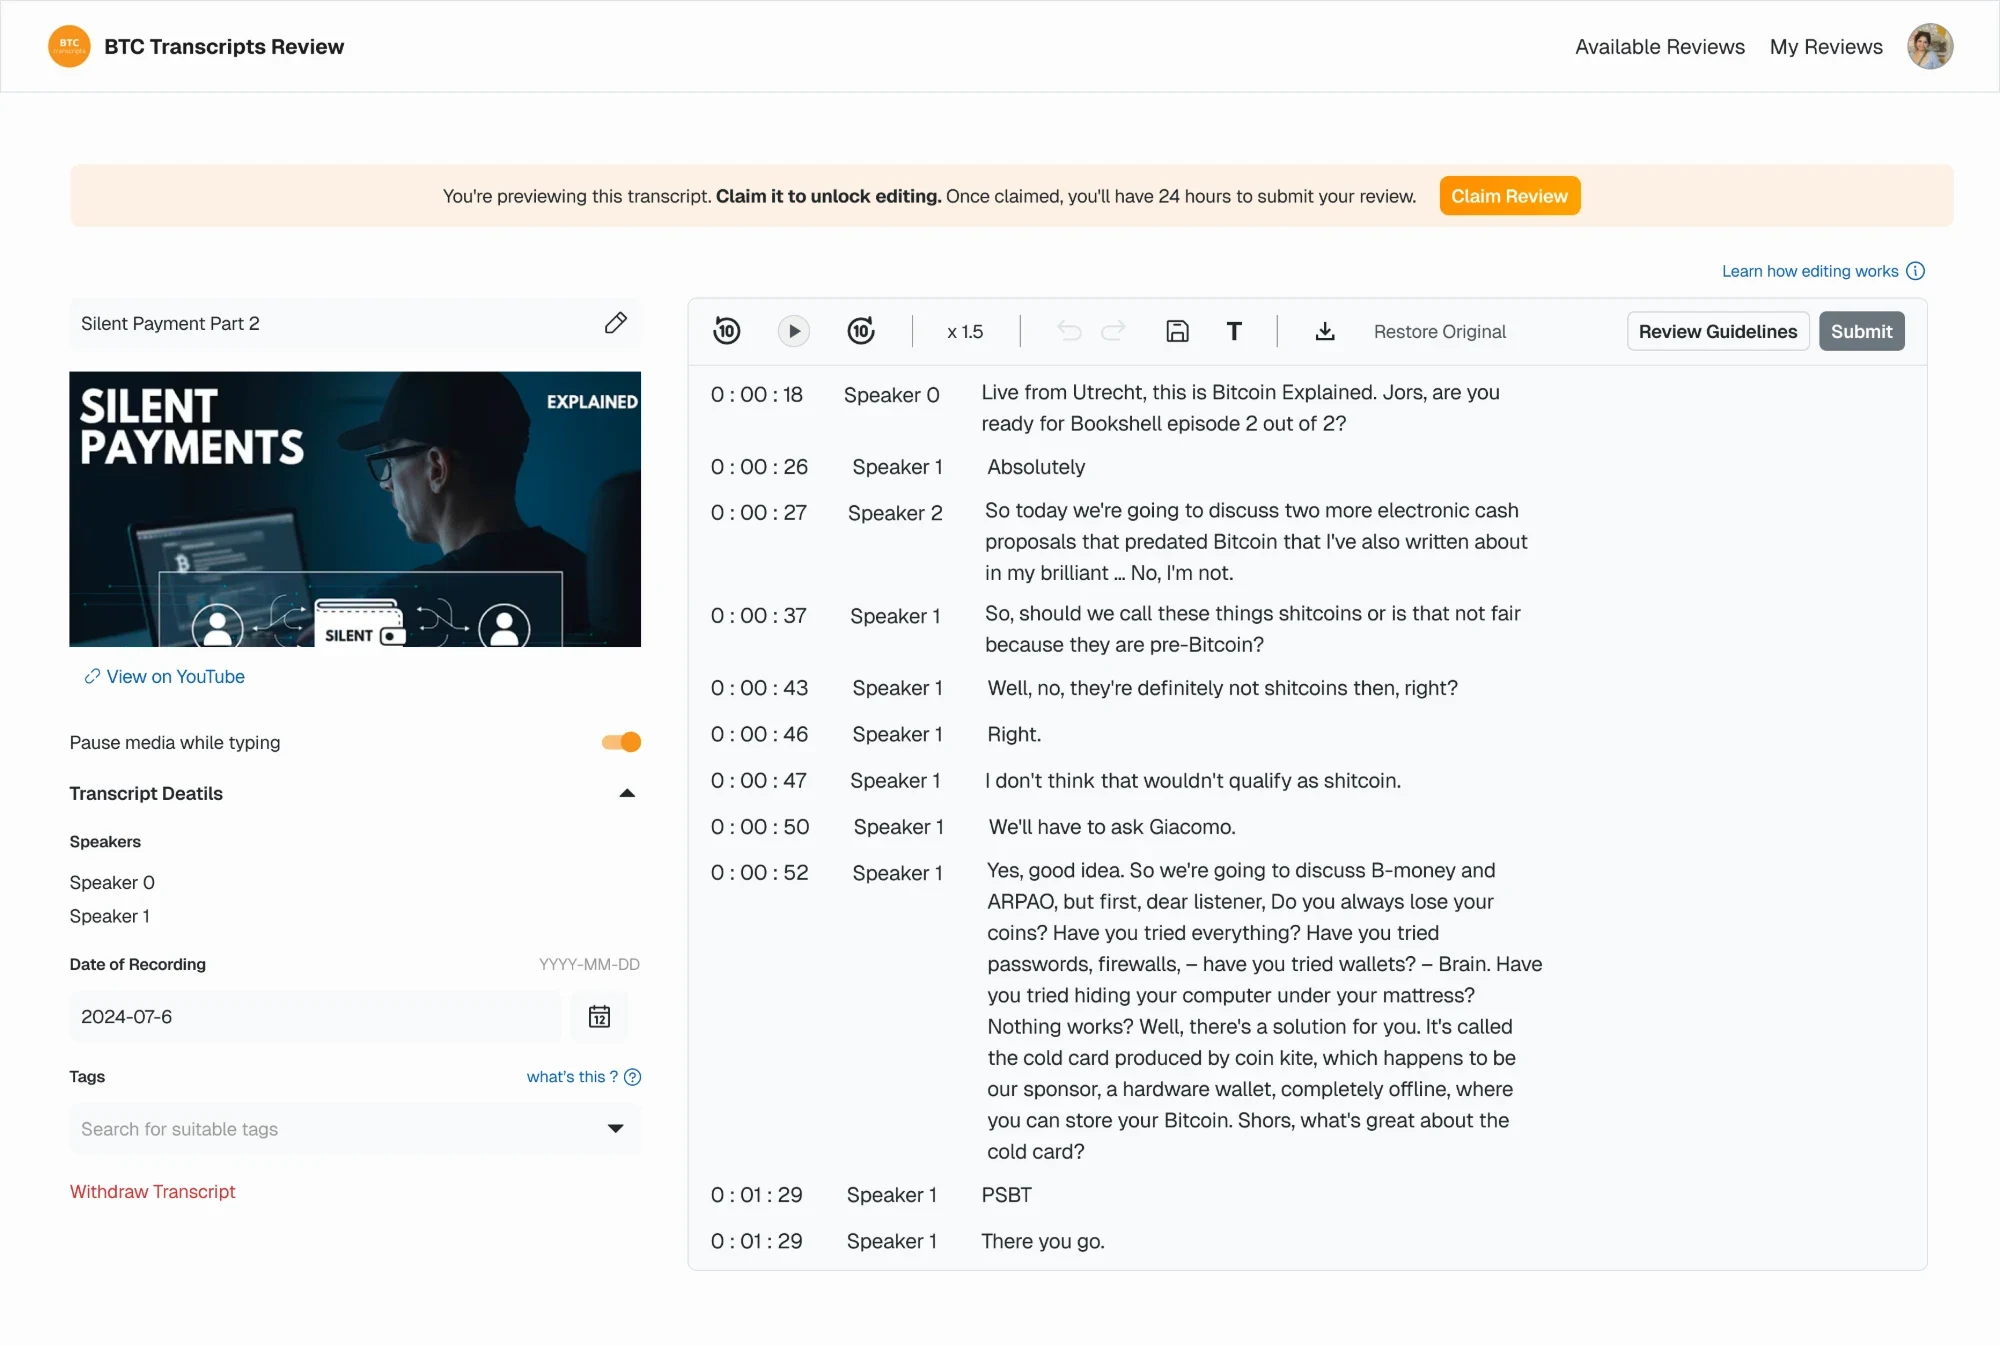
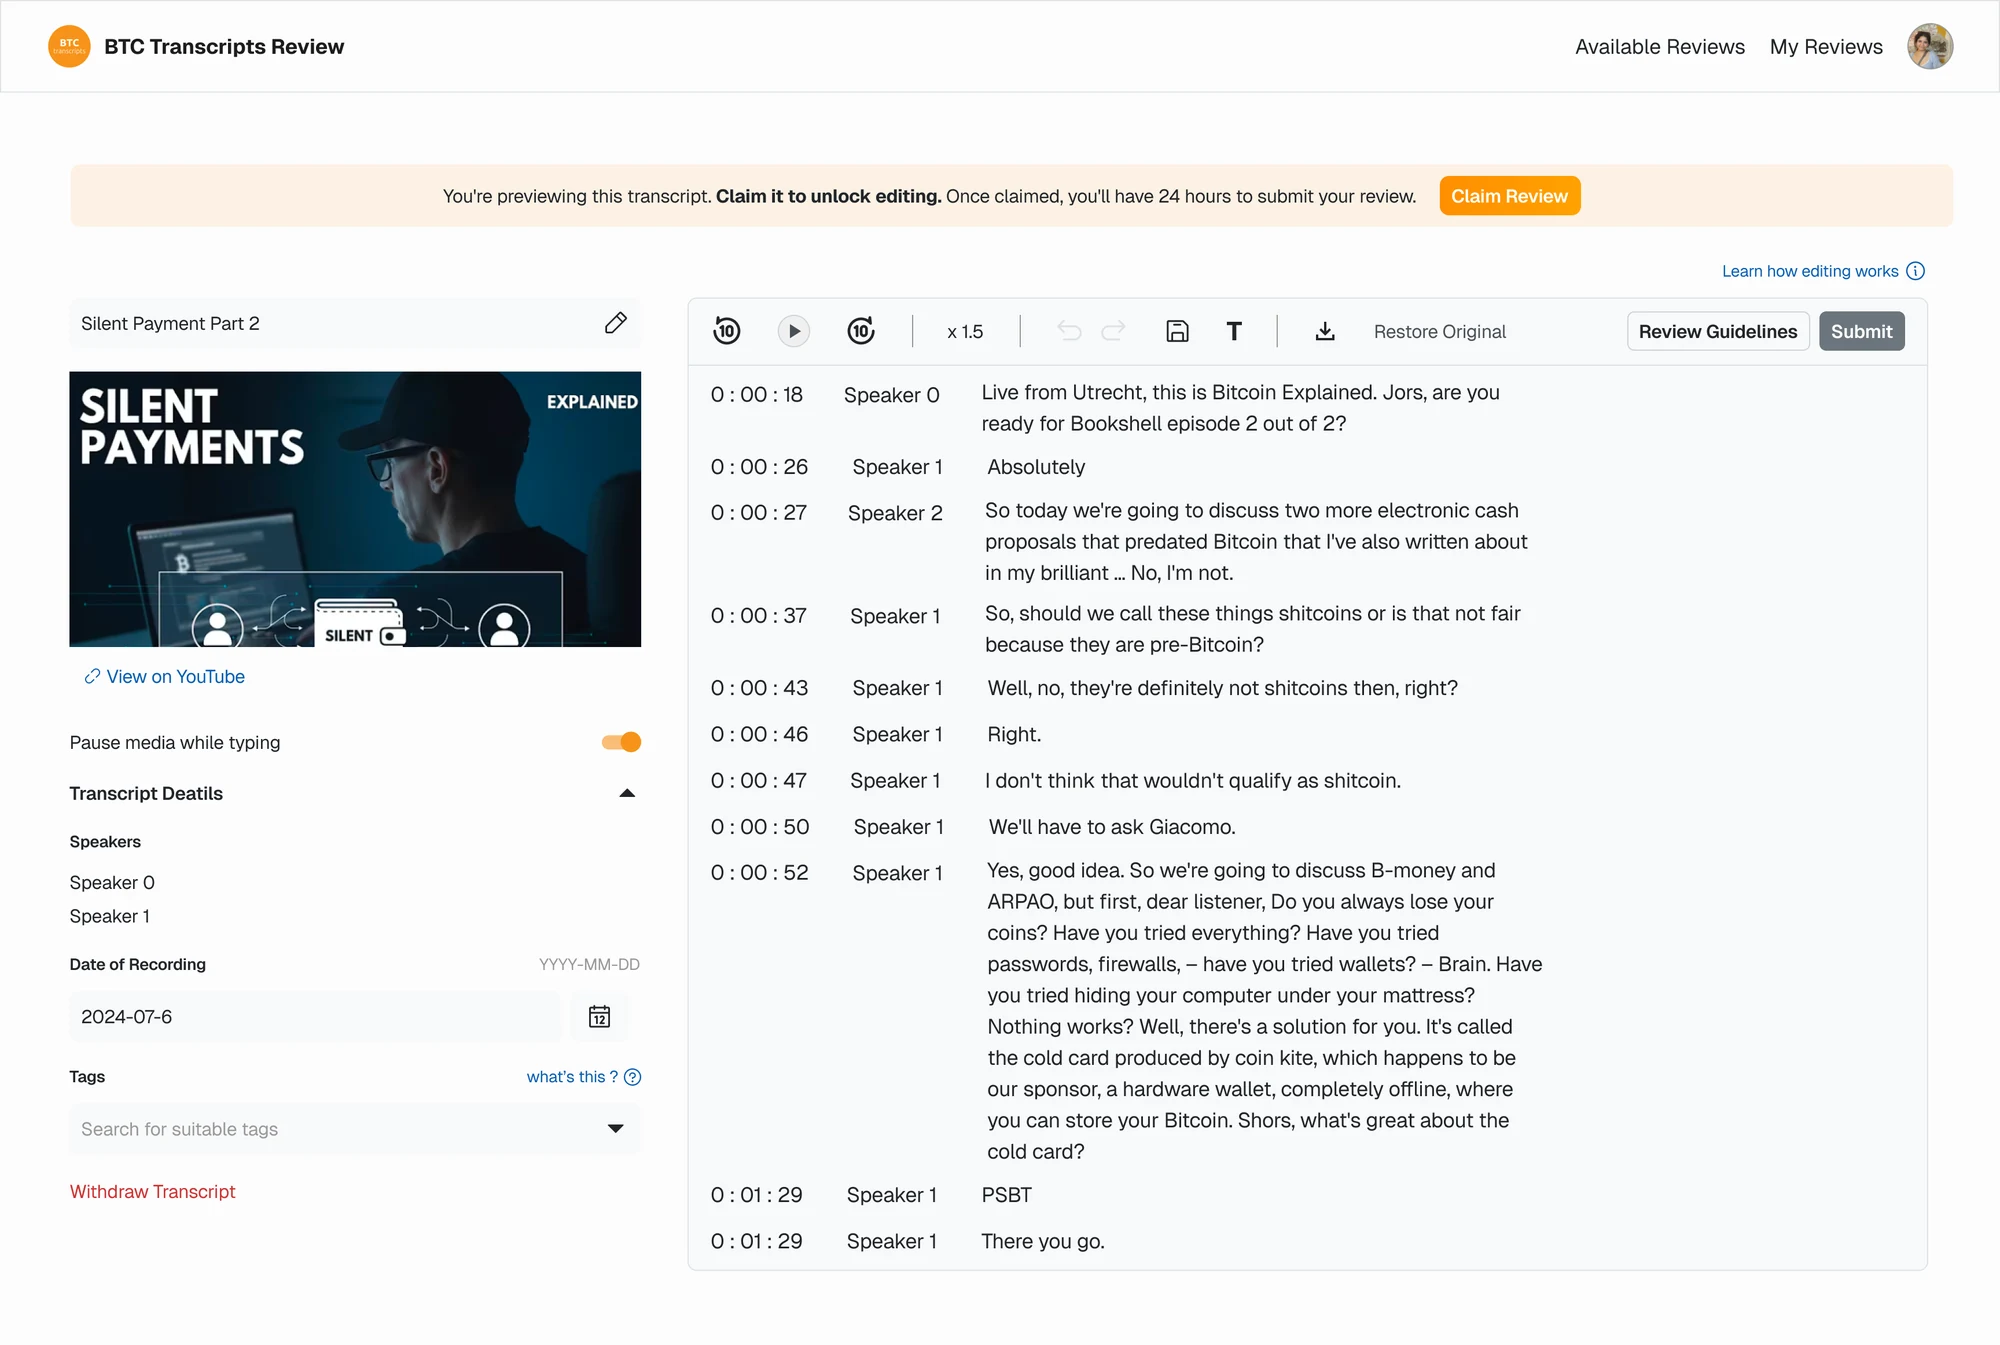
Rework Transcript card sequence: list drops in, row lifts, editor swaps in from the left

diff --git a/components/home/TranscriptCardAnimation.tsx b/components/home/TranscriptCardAnimation.tsx
@@ -6,25 +6,28 @@ import { useCardAnimationReady } from "./useCardAnimationReady";
 
 /* ─────────────────────────────────────────────────────────
  * TRANSCRIPT CARD STORYBOARD (plays once, when the card is on screen and the work has faded in)
- * Timing follows the Jitter file the original video was exported from.
  *
- *    0ms   review list slides in from the upper left, growing slightly as it settles
- * 1000ms   "Silent Payments Part 2" row highlights with a quick glow
- * 1400ms   transcript editor slides in from the right, covering the list
+ *    0ms   review list slides down into the card from above
+ *  900ms   cursor glides onto "Silent Payments Part 2"; the row pops out with a shadow
+ * 2000ms   list slides out to the right while the editor slides in from the left
  * ───────────────────────────────────────────────────────── */
 const TIMING = {
-  highlight: 1000, // row highlight appears
-  editor: 1400, // editor starts sliding in
+  pick: 900, // cursor arrives and the row pops out of the list
+  swap: 2000, // list leaves right, editor enters left
 };
 
-const LIST_IN: Transition = { duration: 1, ease: [0.22, 1, 0.36, 1] };
-const HIGHLIGHT_IN: Transition = { duration: 0.3, ease: [0.22, 1, 0.36, 1] };
-const EDITOR_IN: Transition = { type: "spring", visualDuration: 0.8, bounce: 0 };
+const LIST_IN: Transition = { type: "spring", visualDuration: 0.8, bounce: 0 };
+const ROW_POP: Transition = { duration: 0.45, ease: [0.22, 1, 0.36, 1] };
+const CURSOR_IN: Transition = { duration: 0.5, ease: [0.22, 1, 0.36, 1] };
+const SWAP: Transition = { type: "spring", visualDuration: 0.85, bounce: 0 };
 
-const LIST_START = { opacity: 0, x: "-8%", y: "-22%", scale: 0.92 };
-const LIST_SETTLED = { opacity: 1, x: "0%", y: "0%", scale: 1 };
+const ROW_RESTING = { scale: 1, boxShadow: "0 0 0 rgba(0, 0, 0, 0)" };
+const ROW_LIFTED = {
+  scale: [1, 1.05, 1.035],
+  boxShadow: "0 14px 32px rgba(0, 0, 0, 0.28)",
+};
 
-type Stage = "waiting" | "list" | "highlight" | "editor";
+type Stage = "waiting" | "list" | "pick" | "swap";
 
 export function TranscriptCardAnimation({ ariaLabel }: { ariaLabel: string }) {
   const rootRef = useRef<HTMLDivElement>(null);
@@ -34,7 +37,7 @@ export function TranscriptCardAnimation({ ariaLabel }: { ariaLabel: string }) {
 
   useEffect(() => {
     if (reduceMotion) {
-      setStage("editor");
+      setStage("swap");
       return;
     }
 
@@ -44,47 +47,59 @@ export function TranscriptCardAnimation({ ariaLabel }: { ariaLabel: string }) {
 
     setStage("list");
     const timers = [
-      window.setTimeout(() => setStage("highlight"), TIMING.highlight),
-      window.setTimeout(() => setStage("editor"), TIMING.editor),
+      window.setTimeout(() => setStage("pick"), TIMING.pick),
+      window.setTimeout(() => setStage("swap"), TIMING.swap),
     ];
 
     return () => timers.forEach((timer) => window.clearTimeout(timer));
   }, [ready, reduceMotion]);
 
-  const listShown = stage !== "waiting";
-  const highlightShown = stage === "highlight" || stage === "editor";
-  const editorShown = stage === "editor";
+  const picked = stage === "pick" || stage === "swap";
+  const swapped = stage === "swap";
 
   return (
     <div aria-label={ariaLabel} className="transcript-card-animation" ref={rootRef} role="img">
+      {/* The list, its lifted row and the cursor move together when the editor takes over. */}
       <motion.div
-        animate={listShown ? LIST_SETTLED : LIST_START}
+        animate={{ x: swapped ? "115%" : "0%", y: stage === "waiting" ? "-120%" : "0%" }}
         className="transcript-card-animation__list"
-        initial={reduceMotion ? LIST_SETTLED : LIST_START}
-        transition={LIST_IN}
+        initial={false}
+        transition={swapped ? SWAP : LIST_IN}
       >
         <img alt="" src="/assets/case-study-1/card-animation/list.webp" />
         <motion.img
           alt=""
-          animate={
-            highlightShown
-              ? { opacity: 1, scale: [1, 1.015, 1] }
-              : { opacity: 0, scale: 1 }
-          }
+          animate={picked ? ROW_LIFTED : ROW_RESTING}
           className="transcript-card-animation__row"
           initial={false}
           src="/assets/case-study-1/card-animation/row-highlight.webp"
-          transition={HIGHLIGHT_IN}
+          transition={ROW_POP}
         />
+        <motion.svg
+          animate={picked ? { opacity: 1, x: "0%", y: "0%" } : { opacity: 0, x: "120%", y: "160%" }}
+          aria-hidden="true"
+          className="transcript-card-animation__cursor"
+          initial={false}
+          transition={CURSOR_IN}
+          viewBox="0 0 24 24"
+        >
+          <path
+            d="M5 3l14 8.2-6.1 1.4-3.2 5.6z"
+            fill="#000"
+            stroke="#fff"
+            strokeLinejoin="round"
+            strokeWidth="1.5"
+          />
+        </motion.svg>
       </motion.div>
 
       <motion.img
         alt=""
-        animate={{ x: editorShown ? "0%" : "108%" }}
+        animate={{ x: swapped ? "0%" : "-115%" }}
         className="transcript-card-animation__editor"
         initial={false}
         src="/assets/case-study-1/card-animation/editor.webp"
-        transition={EDITOR_IN}
+        transition={SWAP}
       />
     </div>
   );

diff --git a/app/globals.css b/app/globals.css
@@ -2597,14 +2597,13 @@ video {
   top: 6%;
   left: 7%;
   width: 86%;
-  overflow: hidden;
-  border-radius: 8px;
 }
 
-.transcript-card-animation__list img {
+.transcript-card-animation__list > img {
   display: block;
   width: 100%;
   height: auto;
+  border-radius: 8px;
 }
 
 /* Sits exactly over the first row: it starts at that row's top divider (66px of 976px). */
@@ -2612,6 +2611,18 @@ video {
   position: absolute;
   top: calc(66 / 976 * 100%);
   left: 0;
+  border-radius: 6px;
+}
+
+/* Rests over the row's chevron once it glides in. */
+.transcript-card-animation__cursor {
+  position: absolute;
+  top: calc(110 / 976 * 100%);
+  left: 96.6%;
+  width: clamp(14px, 2.2vw, 22px);
+  height: auto;
+  overflow: visible;
+  filter: drop-shadow(0 2px 3px rgba(0, 0, 0, 0.3));
 }
 
 .transcript-card-animation__editor {
